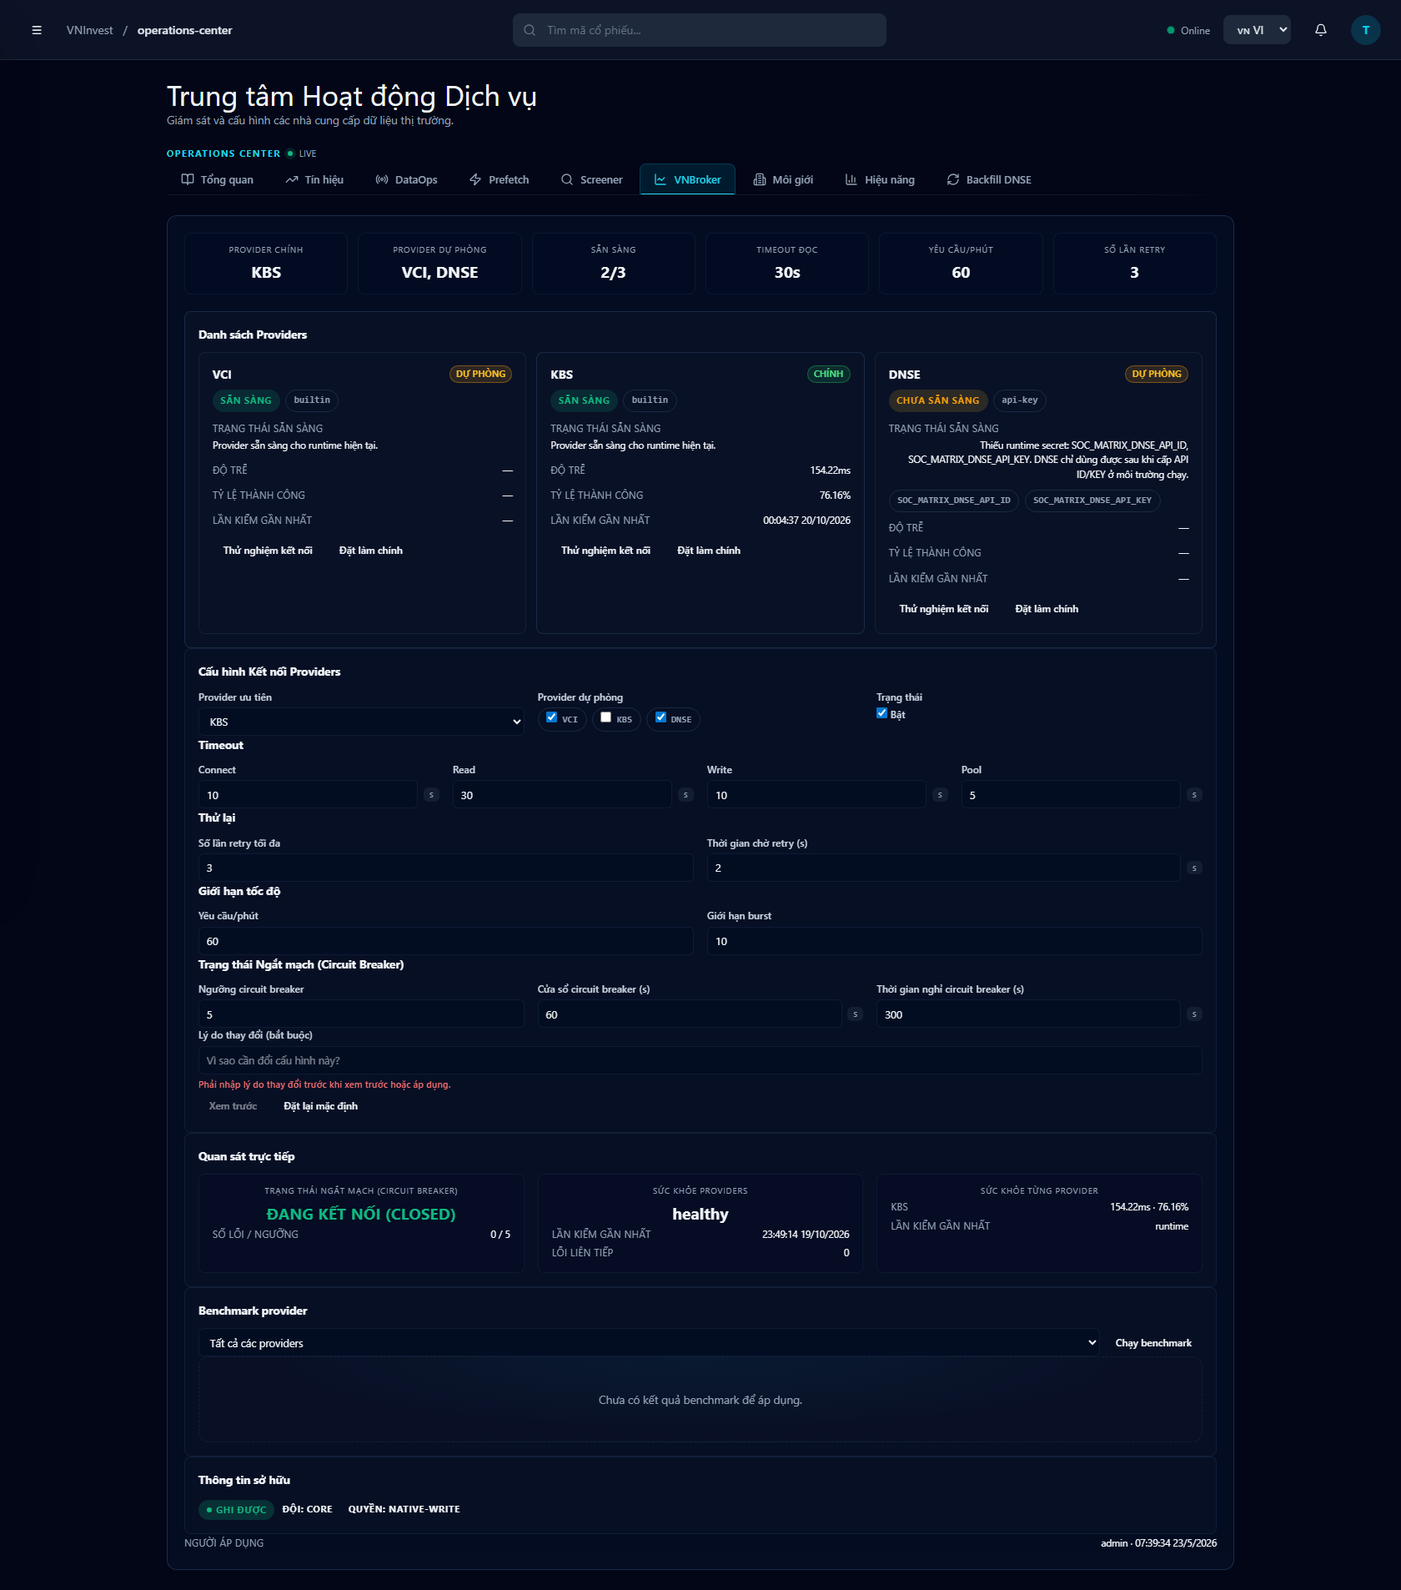
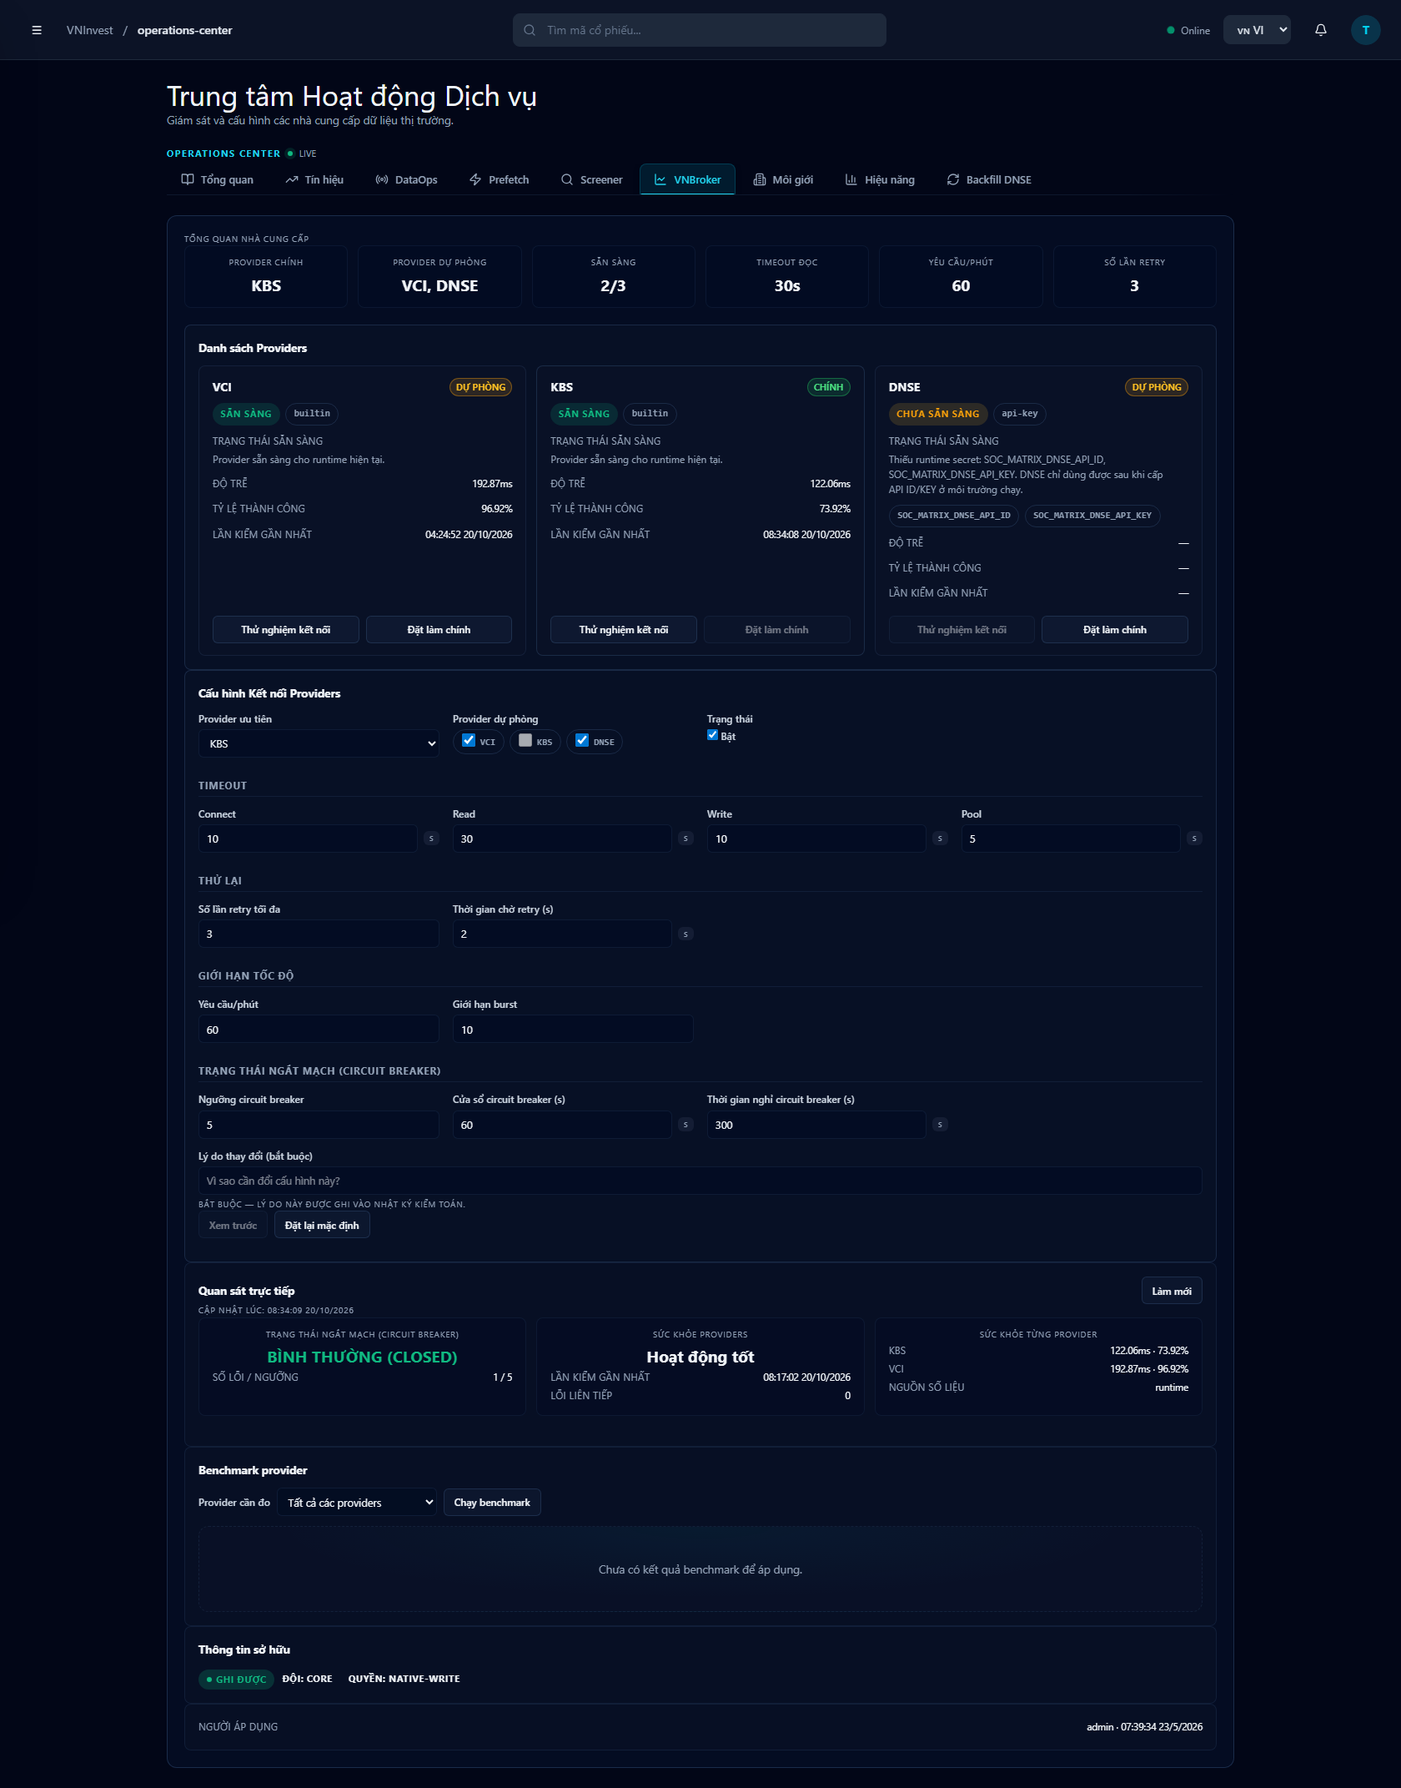
docs(evidence+audit): cap nhat anh chup + §J (audit UI/UX vong 2 + do tron tru BE<->FE) + ledger 386
- docs/AUDIT_VNBROKER_CONSOLE_20261019.md §J: ket qua vong 2 (2 UI agent + 2 skill)
  · 3 yeu cau Owner + do lai bang pixel that
  · 9 loi BE<->FE (ke ca loi TOI LAM: timeout 12s doan ⇒ cat endpoint, form trong)
  · 9 loi A11Y · bang do verify · gate
- docs/CODE_CHANGE_AUDIT_LEDGER.md: Entry 386
- docs/CLAIMS.md: dong claim vong 2 (vnbroker-console, done)
- docs/evidence/vnbroker-console/: 4 anh chup MOI (sau khi sua) + measure-result.json

Do verify tren staging (Playwright): 2 nut tile lech 0.01px · 3 tile lech cao do 0px ·
do rong input lech 25.53px · khong tran ngang 1680/1280/1024/840/768/430 ·
shell 13.7s · form co du lieu 20.8s · 0 console error.

Bai hoc: timeout phai chon tu SO DO THAT; chon bang doan da lam mat du lieu o 1 lan
deploy va chi bi phat hien khi MO ANH RA XEM (exit code van xanh).

diff --git a/docs/AUDIT_VNBROKER_CONSOLE_20261019.md b/docs/AUDIT_VNBROKER_CONSOLE_20261019.md
@@ -433,6 +433,68 @@ Các con số trong ảnh chụp ban đầu (`HOẠT ĐỘNG TỐT 1`, `934.6/s`
 
 ---
 
+## J. VÒNG 2 — AUDIT UI/UX + ĐỘ TRƠN TRU BE↔FE (2026-10-20)
+
+> Owner yêu cầu: audit lại UI/UX bằng UI agent + skill, sửa (a) 2 nút trong tile phải **bằng nhau**, (b) nhóm "Giới hạn tốc độ" **dồn 1 hàng**, (c) tự phát hiện lỗi khác, (d) kiểm tra độ trơn tru BE↔FE.
+> Công cụ: 2 sub-agent (**Accessibility Auditor** · **UI Designer**) + skill `pbakaus/layout` + `jakubkrehel/better-interface`. Mọi kết luận đều có **đo đạc pixel thật** trên staging, không suy từ source.
+
+### J1. Lỗi Owner nêu — đã sửa và **đo lại**
+
+| # | Trước (đo) | Sau (đo) | Ngưỡng |
+|---|---|---|---|
+| O1 | 2 nút trong tile: **130px vs 99px** (lệch 31px) | **175.66 vs 175.67px** (lệch 0.01px) | ≤ 1px |
+| O1b | 3 tile hàng nút ở 3 cao độ (275 / 275 / 345) | **3 tile cùng `top=738`** | ≤ 1px |
+| O2 | "Giới hạn tốc độ" 2 field trải **593px/field**; "Thử lại" y hệt | 1 lưới chung `.vnbFormGrid` (`auto-fill minmax(240px,1fr)`) → mọi nhóm **cùng hệ cột**; độ rộng input lệch **25.53px** (do chip `s`) | ≤ 32px |
+
+Nguyên nhân gốc: `.fieldGrid` = `repeat(auto-fit, minmax(200px,1fr))` ⇒ **`auto-fit` thu gọn track rỗng rồi phân lại `fr`** ⇒ nhóm 2 field bị kéo giãn full-width, 4 nhóm có 4 bề rộng cột khác nhau. Sửa bằng `.vnbFormGrid` (**`auto-fill`**) — track rỗng giữ nguyên.
+
+### J2. Lỗi BE↔FE phát hiện khi audit (quan trọng hơn bố cục)
+
+| # | Vấn đề | Trước | Sau |
+|---|---|---|---|
+| B1 | **FE cho phép trạng thái BE sẽ từ chối**: `preferred_provider` ∈ `fallback_providers` → BE `validate()` trả 400 | UI cho chọn tự do | `sanitizeDraft()` + `setPreferred()` loại primary khỏi chuỗi dự phòng; **checkbox dự phòng của provider chính bị khoá** (test T9) |
+| B2 | **Panel chờ ~60s mới hiện** (đo: 7 request song song) | 1 `Promise.allSettled` trên 7 endpoint + 1 cờ `loadingCore` gate toàn panel | **5 khối tải độc lập** (config / providers / ownership / runtime / benchmark), mỗi khối có loading + error + "Thử lại" riêng |
+| B3 | **Timeout 12s (do tôi đoán) cắt mất endpoint còn sống** | — | Đo thật trên staging: **1 request 1.4–7.8s** ⇒ timeout **30s** (trên số đo, không đoán). Đây là lý do form bị trống ở lần deploy đầu — bắt được nhờ **mở ảnh ra xem** (L-V05) |
+| B4 | **Không poll** ⇒ "Quan sát trực tiếp" là số tĩnh | số đo đứng yên sau 60s | poll **60s** (bỏ qua tab ẩn) + nút "Làm mới" + `aria-live` + dòng "Cập nhật lúc". Số liệu đã đổi giữa 2 lần chụp (KBS 185.39ms → 122.06ms) |
+| B5 | "Thử nghiệm kết nối" cho provider **chưa sẵn sàng** → BE trả 400 kỹ thuật | bấm xong mới biết lỗi | nút **disable** + `title` giải thích bằng `readiness_reason` |
+| B6 | "Đặt làm chính" cho provider **đang là chính** | bấm không có gì xảy ra | nút **disable** |
+| B7 | Không có trạng thái "dirty" | không biết đã sửa gì | badge "Có thay đổi chưa áp dụng" (test đo: 0 → 1 khi đổi primary) |
+| B8 | `health.status` hiện chuỗi API thô `healthy` | không dịch | dịch qua `soc.vnbroker.provider_status_*` → "Hoạt động tốt" |
+| B9 | `breaker_closed: "ĐANG KẾT NỐI (CLOSED)"` — **ngữ nghĩa sai** (CLOSED = bình thường) | gây hiểu nhầm | "BÌNH THƯỜNG (CLOSED)" |
+
+### J3. A11Y (WCAG 2.2 AA) — đã sửa
+
+| # | Vấn đề | Sửa |
+|---|---|---|
+| A1 | `<select>` benchmark **không có accessible name** | `<label htmlFor>` + `id` (đo: `label[for]` ≠ null) |
+| A2 | 6 nút trong tile **trùng tên** ("Thử nghiệm kết nối" ×3) | `aria-label` kèm tên provider + tile là `<section aria-labelledby>` (đo: **6/6** nhãn khác nhau) |
+| A3 | Panel **không có heading** nào | `<h2>` panel · `<h3>` khối · `<h4>` nhóm con (đo: **15** heading) |
+| A4 | Vùng live mount **động** ⇒ SR bỏ qua | node `role=alert`/`role=status` **luôn có trong DOM**, phần màu bên trong |
+| A5 | Lỗi "bắt buộc" không liên kết với input | `required` + `aria-required` + `aria-invalid` + `aria-describedby`; lỗi chỉ hiện **sau khi user chạm** (trước đó form "hỏng" sẵn) |
+| A6 | Focus ring `.fieldInput` chỉ đổi màu viền 1px | `:focus-visible` 2px |
+| A7 | Checkbox 13px | 16px + `cursor: pointer` |
+| A8 | `SocConfigPreviewModal` **không phải dialog** (không role/aria-modal, Escape không đóng, focus không trả về) | `role=dialog` + `aria-modal` + `aria-labelledby` + Escape đóng + focus vào nút xác nhận + trả focus về nút đã mở + nút đóng có `aria-label` |
+| A9 | Bảng thiếu `scope` / `<caption>` | thêm đủ |
+
+### J4. Số đo verify (staging, Playwright + `getBoundingClientRect`)
+
+| Phép đo | Kết quả | Ngưỡng |
+|---|---|---|
+| 2 nút tile lệch rộng | **0.01px** | ≤ 1px |
+| 3 tile hàng nút lệch cao độ | **0px** | ≤ 1px |
+| Độ rộng input các nhóm lệch | **25.53px** | ≤ 32px |
+| Tràn ngang ở 1680 / 1280 / 1024 / 840 / 768 / 430 | **OK** (scrollWidth == innerWidth) | không tràn |
+| Panel hiện (shell) | 13.7s (nạp bundle) | — |
+| Form có dữ liệu thật | 20.8s | — |
+| Số liệu runtime | đổi giữa 2 lần chụp (poll chạy) | — |
+| Console error | **0** | 0 |
+
+### J5. Gate
+
+`tsc` 0 · `eslint` 0 error · `vitest` **12/12** (4 test mới: T9 chặn trạng thái BE từ chối · T10 nút bằng nhau · T11 nhãn nút khác nhau · T12 có heading) · `jest soc.test.js` 98/98 · `i18n:scan:strict` 0 · `check:contrast` 0 · `check:tokens` exit 1 (**lỗi nền** `brokerData.css #c4b5fd`) · `normalize-eol` 0.
+
+---
+
 ## Liên kết
 
 - Ledger: `docs/CODE_CHANGE_AUDIT_LEDGER.md` **Entry 384** (audit) + **Entry 385** (triển khai Slice 2 + Slice 3)

diff --git a/docs/CLAIMS.md b/docs/CLAIMS.md
@@ -1649,3 +1649,9 @@ Claim duoc giu sau khi huy `portfolio-w3-api` (L277) + `owner-audit-fix` (L942) 
 |---|---|---|---|---|---|---|
 | `vnbroker-console` | `feat/vnbroker-console` -> `dev` | **Dong Slice 2 (FE) + Slice 3 (BE)** cua claim tren. Owner chot Q1=B · Q2=B · Q3=C · Q4=A. | **TAO MOI**: `docs/LESSONS/tooling-traps-2.md` · `packages/web/src/components/__tests__/soc-vnbroker-console.component.test.tsx` · `packages/core/backend/src/market_data/vnbroker_provider_health.py` · `packages/core/backend/src/service_ops/tests/test_vnbroker_console.py` · `packages/core/backend/src/market_data/migrations/0007_vnbrokerproviderhealth.py`; **SUA**: `packages/web/src/adapters/core/soc.js` · `packages/web/src/adapters/core/__tests__/soc.test.js` · `packages/web/src/components/soc/SocVnbrokerPanel.tsx` · `packages/web/src/components/soc/SocConfigPreviewModal.tsx` · `packages/web/src/components/soc/SocTabNavigation.tsx` · `packages/web/src/components/soc/soc.components.css` · `packages/web/src/components/soc/soc.tokens.css` · `packages/web/src/i18n/vi.js` · `packages/web/src/i18n/en.js` · `packages/core/backend/src/market_data/models.py` · `packages/core/backend/src/market_data/vnbroker_adapter.py` · `packages/core/backend/src/market_data/tests/test_vnbroker_daily_history_guard.py` · `packages/core/backend/src/service_ops/views/vnbroker.py` · `packages/core/backend/src/service_ops/urls.py` · `docs/AUDIT_VNBROKER_CONSOLE_20261019.md` · `docs/CODE_CHANGE_AUDIT_LEDGER.md` (Entry 385) · `docs/LESSONS/INDEX.md` · `.opencode/skills/project-lessons/SKILL.md` | **done** | 2026-10-19 | 2 commit code: `037e81ca7` (Slice 2 FE) + `911ea4582` (Slice 3 BE). **8 P0 da sua**: F-01 apply gui config payload THAT (khong con envelope) · F-02 preview hien validationErrors · F-03 benchmark doc report.results + doi ten 4 field theo BE · F-04 circuit breaker doc state THAT (BE tra runtime thay vi `closed` cung) · F-05 bo `provider_health` che · F-06 XOA `getSocVnbrokerMetrics` (so bia) · F-07 test-connection goi provider THAT (503/502 khi provider chet) · F-08 expose primary/fallback. **F-26 (moi, P0)**: `VnbrokerDomainConfig` khong co consumer nao ⇒ da them cau noi `get_soc_vnbroker_config()` de `preferred_provider` + `fallback_providers` + `circuit_breaker_*` CO hieu luc runtime. **BE moi**: model `VnbrokerProviderHealth` + migration `0007` (so do `makemigrations` sinh) + module `market_data/vnbroker_provider_health.py` (do latency that, ghi health row, circuit breaker open/half-open) + endpoint moi `GET /api/soc/vnbroker/provider-health/`. **PANEL** 463 → 1089 dong, 6 vung. **GATE**: tsc 0 · eslint 0 error · build 0 · vitest 8/8 · jest soc.test.js 98/98 · i18n:scan:strict 0 · check:contrast 0 · check-lessons 0 (48/60) · check-multi-agent 0 loi · BE check/migrate 0 · BE 219/219 PASS. **LOI NEN DA CHUNG MINH** (khong phai do slice nay): `npm run test` 3 suite FAIL + BE `market_data+service_ops` 6 loi — **stash file cua toi roi chay lai tren base `e7b008f25` van FAIL y het**. **2 loi DO CHINH TOI GAY RA da sua** (Edit khop mo lam nhầm `normalized_start_date`; doi thu tu uu tien config lam test guard DNSE doi cach kich hoat) — chi tiet ledger Entry 385. **CHUA CHAY**: E2E Playwright · anh chup that tren staging · deploy staging. |
 
+### VNBroker Console — vong 2: audit UI/UX + do tron tru BE<->FE (2026-10-20)
+
+| agent | branch | scope | files | status | since | note |
+|---|---|---|---|---|---|---|
+| `vnbroker-console` | `feat/vnbroker-console` -> `dev` | **Vong 2** cua claim tren: audit UI/UX bang 2 UI agent + skill `pbakaus/layout` + `jakubkrehel/better-interface`, sua 3 yeu cau cua Owner + 9 loi BE<->FE + 9 loi A11Y | **SUA**: `packages/web/src/components/soc/SocVnbrokerPanel.tsx` · `packages/web/src/components/soc/SocConfigPreviewModal.tsx` · `packages/web/src/components/soc/soc.components.css` · `packages/web/src/i18n/vi.js` · `packages/web/src/i18n/en.js` · `packages/web/src/components/__tests__/soc-vnbroker-console.component.test.tsx` · `docs/AUDIT_VNBROKER_CONSOLE_20261019.md` (§J) · `docs/CODE_CHANGE_AUDIT_LEDGER.md` (Entry 386) · `docs/CLAIMS.md`; **CAP NHAT**: `docs/evidence/vnbroker-console/*.png` + `measure-result.json` | **done** | 2026-10-20 | 3 yeu cau Owner: 2 nut trong tile **bang nhau** (130 vs 99px → **175.66 vs 175.67px**) · "Gioi han toc do" + "Thu lai" **1 hang** (nguyen nhan: `.fieldGrid` `auto-fit` thu gon track roi phan lai `fr` ⇒ 2 field bi keo gian 593px; sua bang `.vnbFormGrid` **auto-fill** la 1 luoi chung ⇒ 4 nhom cung he cot, do rong input lech 25.53px) · tieu de nhom con khac tieu de card + h2/h3/h4 that. **9 loi BE<->FE**: FE cho phep trang thai BE se TU CHOI (`preferred_provider` trong `fallback_providers` ⇒ 400) → sanitize + khoa checkbox · panel cho ~60s (7 request song song) → **5 khoi tai doc lap** · timeout 12s (so TOI DOAN) cat mat endpoint con song ⇒ form trong; **do that staging: 1 request 1.4-7.8s ⇒ timeout 30s** · khong poll → poll 60s + nut "Lam moi" · nut "Thu nghiem ket noi" provider chua san sang → disable · nut "Dat lam chinh" provider dang la chinh → disable · them badge dirty · dich `health.status` · `breaker_closed` "DANG KET NOI" → "BINH THUONG". **9 loi A11Y**: select mat accessible name · 6 nut tile trung ten → aria-label (do 6/6 khac nhau) · panel 0 heading → 15 heading · vung live mount dong → luon co trong DOM · loi "bat buoc" khong lien ket input → required/aria-invalid/describedby · focus ring input chi doi mau vien 1px → 2px · checkbox 13px → 16px · preview modal khong phai dialog → role/aria-modal/Escape/focus · bang thieu scope/caption. **DO VERIFY**: nut tile lech 0.01px · 3 tile lech cao do 0px · input lech 25.53px · **khong tran ngang** 1680/1280/1024/840/768/430 · shell 13.7s · form co du lieu 20.8s · **0 console error**. **GATE**: tsc 0 · eslint 0 error · vitest **12/12** (them T9-T12) · jest soc.test.js 98/98 · i18n:scan:strict 0 · check:contrast 0 · check:tokens exit 1 (LOI NEN brokerData.css) · normalize-eol 0 · deploy staging --verify PASS. |
+

diff --git a/docs/CODE_CHANGE_AUDIT_LEDGER.md b/docs/CODE_CHANGE_AUDIT_LEDGER.md
@@ -1,3 +1,27 @@
+## Entry 386: VNBroker console vòng 2 — audit UI/UX (2 agent + 2 skill) + sửa **độ trơn tru BE↔FE**: 3 lỗi Owner + 9 lỗi BE↔FE + 9 lỗi A11Y, đo lại bằng pixel thật (2026-10-20)
+
+- **Nhánh**: `feat/vnbroker-console` -> `dev`. Claim `vnbroker-console` (`docs/CLAIMS.md`). Tài liệu: `docs/AUDIT_VNBROKER_CONSOLE_20261019.md` **§J** (Entry 384 = audit, Entry 385 = triển khai v1, Entry 386 = vòng 2).
+- **Công cụ**: 2 sub-agent (**Accessibility Auditor** · **UI Designer**) + skill `pbakaus/layout` + `jakubkrehel/better-interface`. Mọi kết luận có **đo đạc pixel thật** trên staging (Playwright + `getBoundingClientRect` + `getComputedStyle`), **không** suy từ source. Ảnh: `docs/evidence/vnbroker-console/`.
+- **3 YÊU CẦU CỦA OWNER — đã sửa + đo lại**:
+  - **2 nút trong tile phải BẰNG NHAU**: trước **130px vs 99px** (lệch 31px) → sau **175.66 vs 175.67px** (lệch 0.01px). Nguyên nhân gốc: hàng nút dùng chung class **badge** `.brokerTileBadges` (chỉ `flex-wrap`, không phân bố bề rộng) ⇒ nút bằng nội dung. Sửa: `.vnbTileActions` = grid `repeat(2, minmax(0,1fr))` + `margin-top:auto` (ghim đáy ⇒ 3 tile cùng cao độ, hết ~95px rỗng dưới tile VCI).
+  - **"Giới hạn tốc độ" dồn 1 hàng**: nguyên nhân gốc `.fieldGrid` = `repeat(auto-fit, minmax(200px,1fr))` ⇒ **`auto-fit` thu gọn track rỗng rồi phân lại `fr`** ⇒ nhóm 2 field bị kéo giãn **593px/field**, 4 nhóm có 4 bề rộng cột khác nhau (262/593/593/390). Sửa: `.vnbFormGrid` (**`auto-fill`**) là **1 lưới chung** cho cả 4 nhóm ⇒ mọi nhóm cùng hệ cột, độ rộng input lệch **25.53px** (chênh do chip `s`).
+  - **Tiêu đề nhóm con khác tiêu đề card**: `.vnbFormGroupTitle` (uppercase + rule) + `<h4>`; card `<h3>`; panel `<h2>`.
+- **9 LỖI BE↔FE (quan trọng hơn bố cục)**:
+  - **FE cho phép trạng thái BE sẽ TỪ CHỐI**: `preferred_provider` ∈ `fallback_providers` ⇒ BE `VnbrokerDomainConfig.validate()` trả 400. Sửa: `sanitizeDraft()` + `setPreferred()` + **khoá** checkbox dự phòng của provider chính (test T9).
+  - **Panel chờ ~60s** (đo: 7 request song song) → **5 khối tải độc lập**, mỗi khối có loading + error + "Thử lại" riêng.
+  - **Timeout 12s (số tôi ĐOÁN) cắt mất endpoint còn sống** ⇒ form trống ở lần deploy đầu. Đo thật trên staging: **1 request 1.4–7.8s** ⇒ timeout **30s**. Bắt được nhờ **mở ảnh ra xem** (L-V05), không phải nhờ exit code.
+  - **Không poll** ⇒ "Quan sát trực tiếp" là số tĩnh → poll 60s (bỏ qua tab ẩn) + nút "Làm mới" + `aria-live` + dòng "Cập nhật lúc". Số liệu đã đổi giữa 2 lần chụp (KBS 185.39ms → 122.06ms).
+  - "Thử nghiệm kết nối" provider **chưa sẵn sàng** (BE trả 400 kỹ thuật) → nút disable + `title` = `readiness_reason`.
+  - "Đặt làm chính" provider **đang là chính** → disable.
+  - Không có trạng thái **dirty** → badge "Có thay đổi chưa áp dụng".
+  - `health.status` hiện chuỗi API thô `healthy` → dịch `soc.vnbroker.provider_status_*`.
+  - `breaker_closed: "ĐANG KẾT NỐI (CLOSED)"` — **ngữ nghĩa sai** (CLOSED = bình thường) → "BÌNH THƯỜNG (CLOSED)".
+- **9 LỖI A11Y (WCAG 2.2 AA)**: select benchmark mất accessible name · 6 nút tile trùng tên → `aria-label` + `<section aria-labelledby>` (đo 6/6 khác nhau) · panel không có heading → h2/h3/h4 (đo 15) · vùng live mount động ⇒ SR bỏ qua → node luôn có trong DOM + màu bên trong · lỗi "bắt buộc" không liên kết input → `required`/`aria-invalid`/`aria-describedby` + chỉ hiện sau khi user chạm · focus ring `.fieldInput` chỉ đổi màu viền 1px → `:focus-visible` 2px · checkbox 13px → 16px · `SocConfigPreviewModal` không phải dialog → `role=dialog` + `aria-modal` + Escape + focus vào/ra + `aria-label` nút đóng · bảng thiếu `scope`/`caption`.
+- **SỐ ĐO VERIFY** (staging): 2 nút lệch **0.01px** (≤1) · 3 tile lệch cao độ **0px** (≤1) · độ rộng input lệch **25.53px** (≤32) · **không tràn ngang** ở 1680/1280/1024/840/768/430 (scrollWidth == innerWidth) · panel shell 13.7s · form có dữ liệu 20.8s · **0 console error**.
+- **TEST**: `soc-vnbroker-console.component.test.tsx` 8 → **12** (thêm T9 chặn trạng thái BE từ chối · T10 2 nút bằng nhau · T11 nhãn nút khác nhau theo provider · T12 có heading) ⇒ **12/12 PASS**.
+- **GATE**: `tsc` **0** · `eslint` **0 error** (163 warning cùng loại `react/jsx-no-literals`) · `vitest` **12/12** · `jest soc.test.js` **98/98** · `i18n:scan:strict` **0** · `check:contrast` **0** · `check:tokens` exit 1 (**lỗi nền** `brokerData.css #c4b5fd`) · `normalize-eol` **0** · deploy staging `--verify` **PASS**.
+- **BÀI HỌC LẶT (chưa ghi lesson vì là lỗi quy trình, không phải bẫy công cụ)**: timeout phải chọn từ **số đo thật**; chọn bằng đoán đã làm mất dữ liệu ở 1 lần deploy và chỉ bị phát hiện khi **mở ảnh ra xem** — exit code vẫn xanh.
+
 ## Entry 385: Refactor tab VNBroker — 8 lỗi P0 sửa (contract FE↔BE + panel 6 vùng) + nối circuit breaker / test-connection / health per-provider thật ở BE (2026-10-19)
 
 - **Nhánh**: `feat/vnbroker-console` -> `dev`. Claim `vnbroker-console` (`docs/CLAIMS.md`, commit `9cf90c38e` mở rộng phạm vi). Baseline `dev` @ `e7b008f25`. **2 commit code**: `037e81ca7` (Slice 2 FE) + `911ea4582` (Slice 3 BE). Tài liệu: `docs/AUDIT_VNBROKER_CONSOLE_20261019.md` (Entry 384 là audit, Entry 385 là triển khai).
